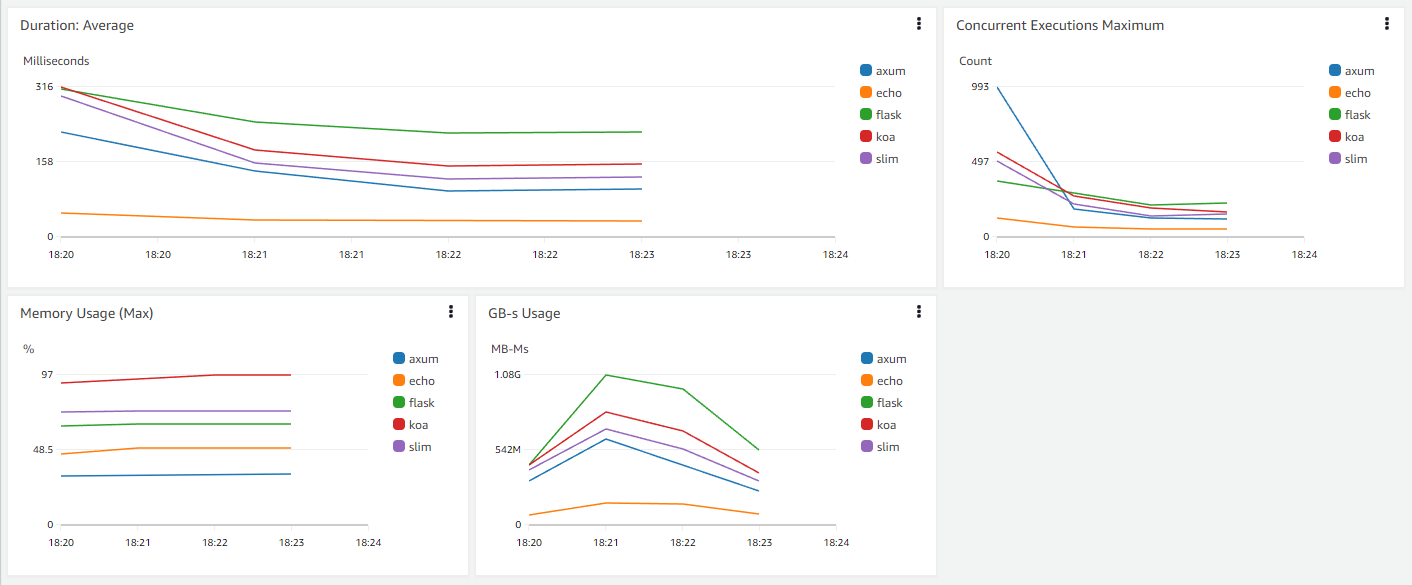
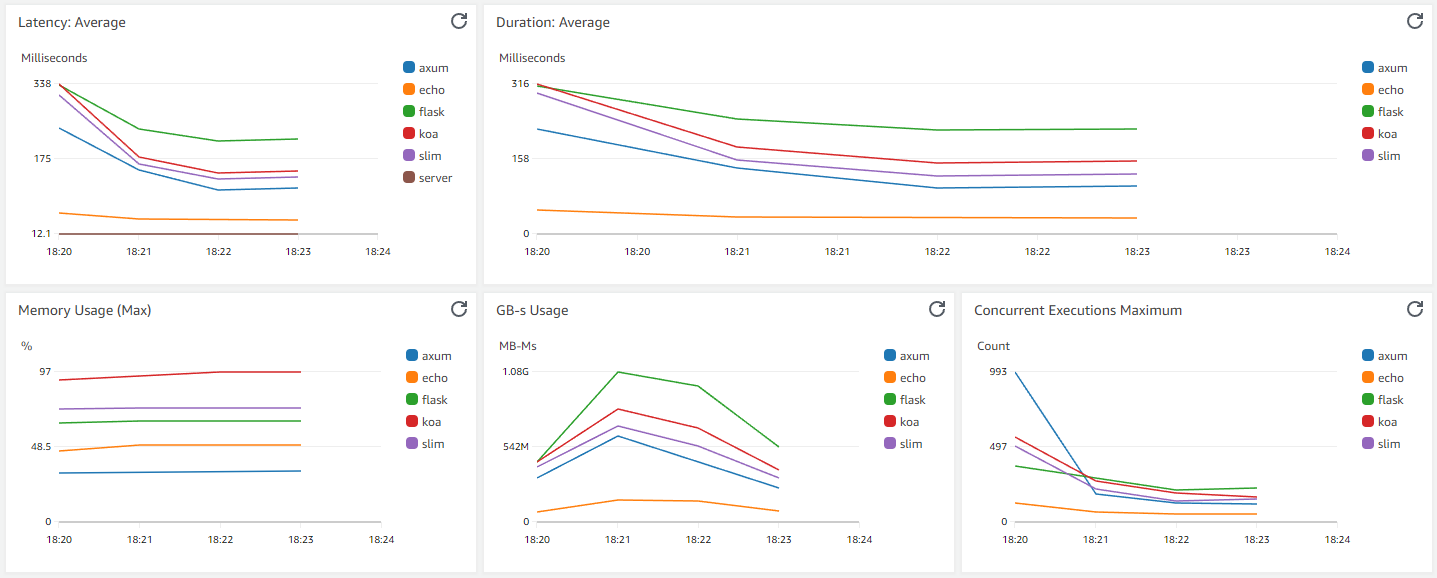
update

diff --git a/README.md b/README.md
@@ -1,6 +1,6 @@
 # About
 
-I compared the performance of the web frameworks:
+I compared the performance of these web frameworks:
 * Rust Actix Web;
 * Rust Axum;
 * Go Echo;
@@ -10,13 +10,17 @@ I compared the performance of the web frameworks:
 * TypeScript Nest;
 * PHP Slim.
 
-Each web service has an endpoint. When the endpoint is visited, it requests weather data from the server and returns the value.
+A web service with an endpoint is built on top of each framework. When the endpoint is visited, the service requests weather data from a weather server and returns the value.
 
-For testing, I used the Caddy server located on the same Docker network and Grafana K6 load testing tool.
+For testing, I use a local page as the weather service. In the Docker it is located on a Caddy server in the same network.
 
-To monitor CPU and memory usage of Docker containers for the top 3 frameworks, I used cAdvisor, Prometheus, and Grafana.
+I use Grafana K6 load testing tool.
 
-For the AWS test, I used the [Wildix](https://www.wildix.com/)'s R&D playground. The lambdas had 128 and 512 MB of memory.
+To monitor CPU and memory usage of Docker containers, I use cAdvisor, Prometheus, and Grafana.
+
+For testing on AWS, I use an R&D playground from the company [Wildix](https://www.wildix.com/).
+
+### 8 Frameworks
 
 ![Response Time](https://github.com/spolanyev/performance-comparison/blob/main/k6-summary.png?raw=true)
 
@@ -26,23 +30,15 @@ For the AWS test, I used the [Wildix](https://www.wildix.com/)'s R&D playground.
 
 ![Containers](https://github.com/spolanyev/performance-comparison/blob/main/containers.png?raw=true)
 
+### Top 3 Frameworks
+
 ![Top 3 Response Time](https://github.com/spolanyev/performance-comparison/blob/main/k6-summary-top-3.png?raw=true)
 
 ![Top 3 CPU Consumption](https://github.com/spolanyev/performance-comparison/blob/main/grafana-docker-cpu-top-3.png?raw=true)
 
 ![Top 3 Memoru Consumption](https://github.com/spolanyev/performance-comparison/blob/main/grafana-docker-memory-top-3.png?raw=true)
 
-![Lambda 128 Response Time](https://github.com/spolanyev/performance-comparison/blob/main/k6-lambda-128mb-summary.png?raw=true)
-
-![Lambda 128 Metrics](https://github.com/spolanyev/performance-comparison/blob/main/cloudwatch-lambda-128mb.png?raw=true)
-
-![Lambda 512 Response Time](https://github.com/spolanyev/performance-comparison/blob/main/k6-lambda-512mb-summary.png?raw=true)
-
-![Lambda 512 Metrics](https://github.com/spolanyev/performance-comparison/blob/main/cloudwatch-lambda-512mb.png?raw=true)
-
-![Lambda 128 Compiled Response Time](https://github.com/spolanyev/performance-comparison/blob/main/k6-lambda-128mb-compiled.png?raw=true)
-
-![Lambda 128 Compiled Metrics](https://github.com/spolanyev/performance-comparison/blob/main/cloudwatch-lambda-128mb-compiled.png?raw=true)
+### AWS Lambda
 
 ![Lambda 128 K6 Total Duration](https://github.com/spolanyev/performance-comparison/blob/main/k6-lambda-128mb-total-duration.png?raw=true)
 
